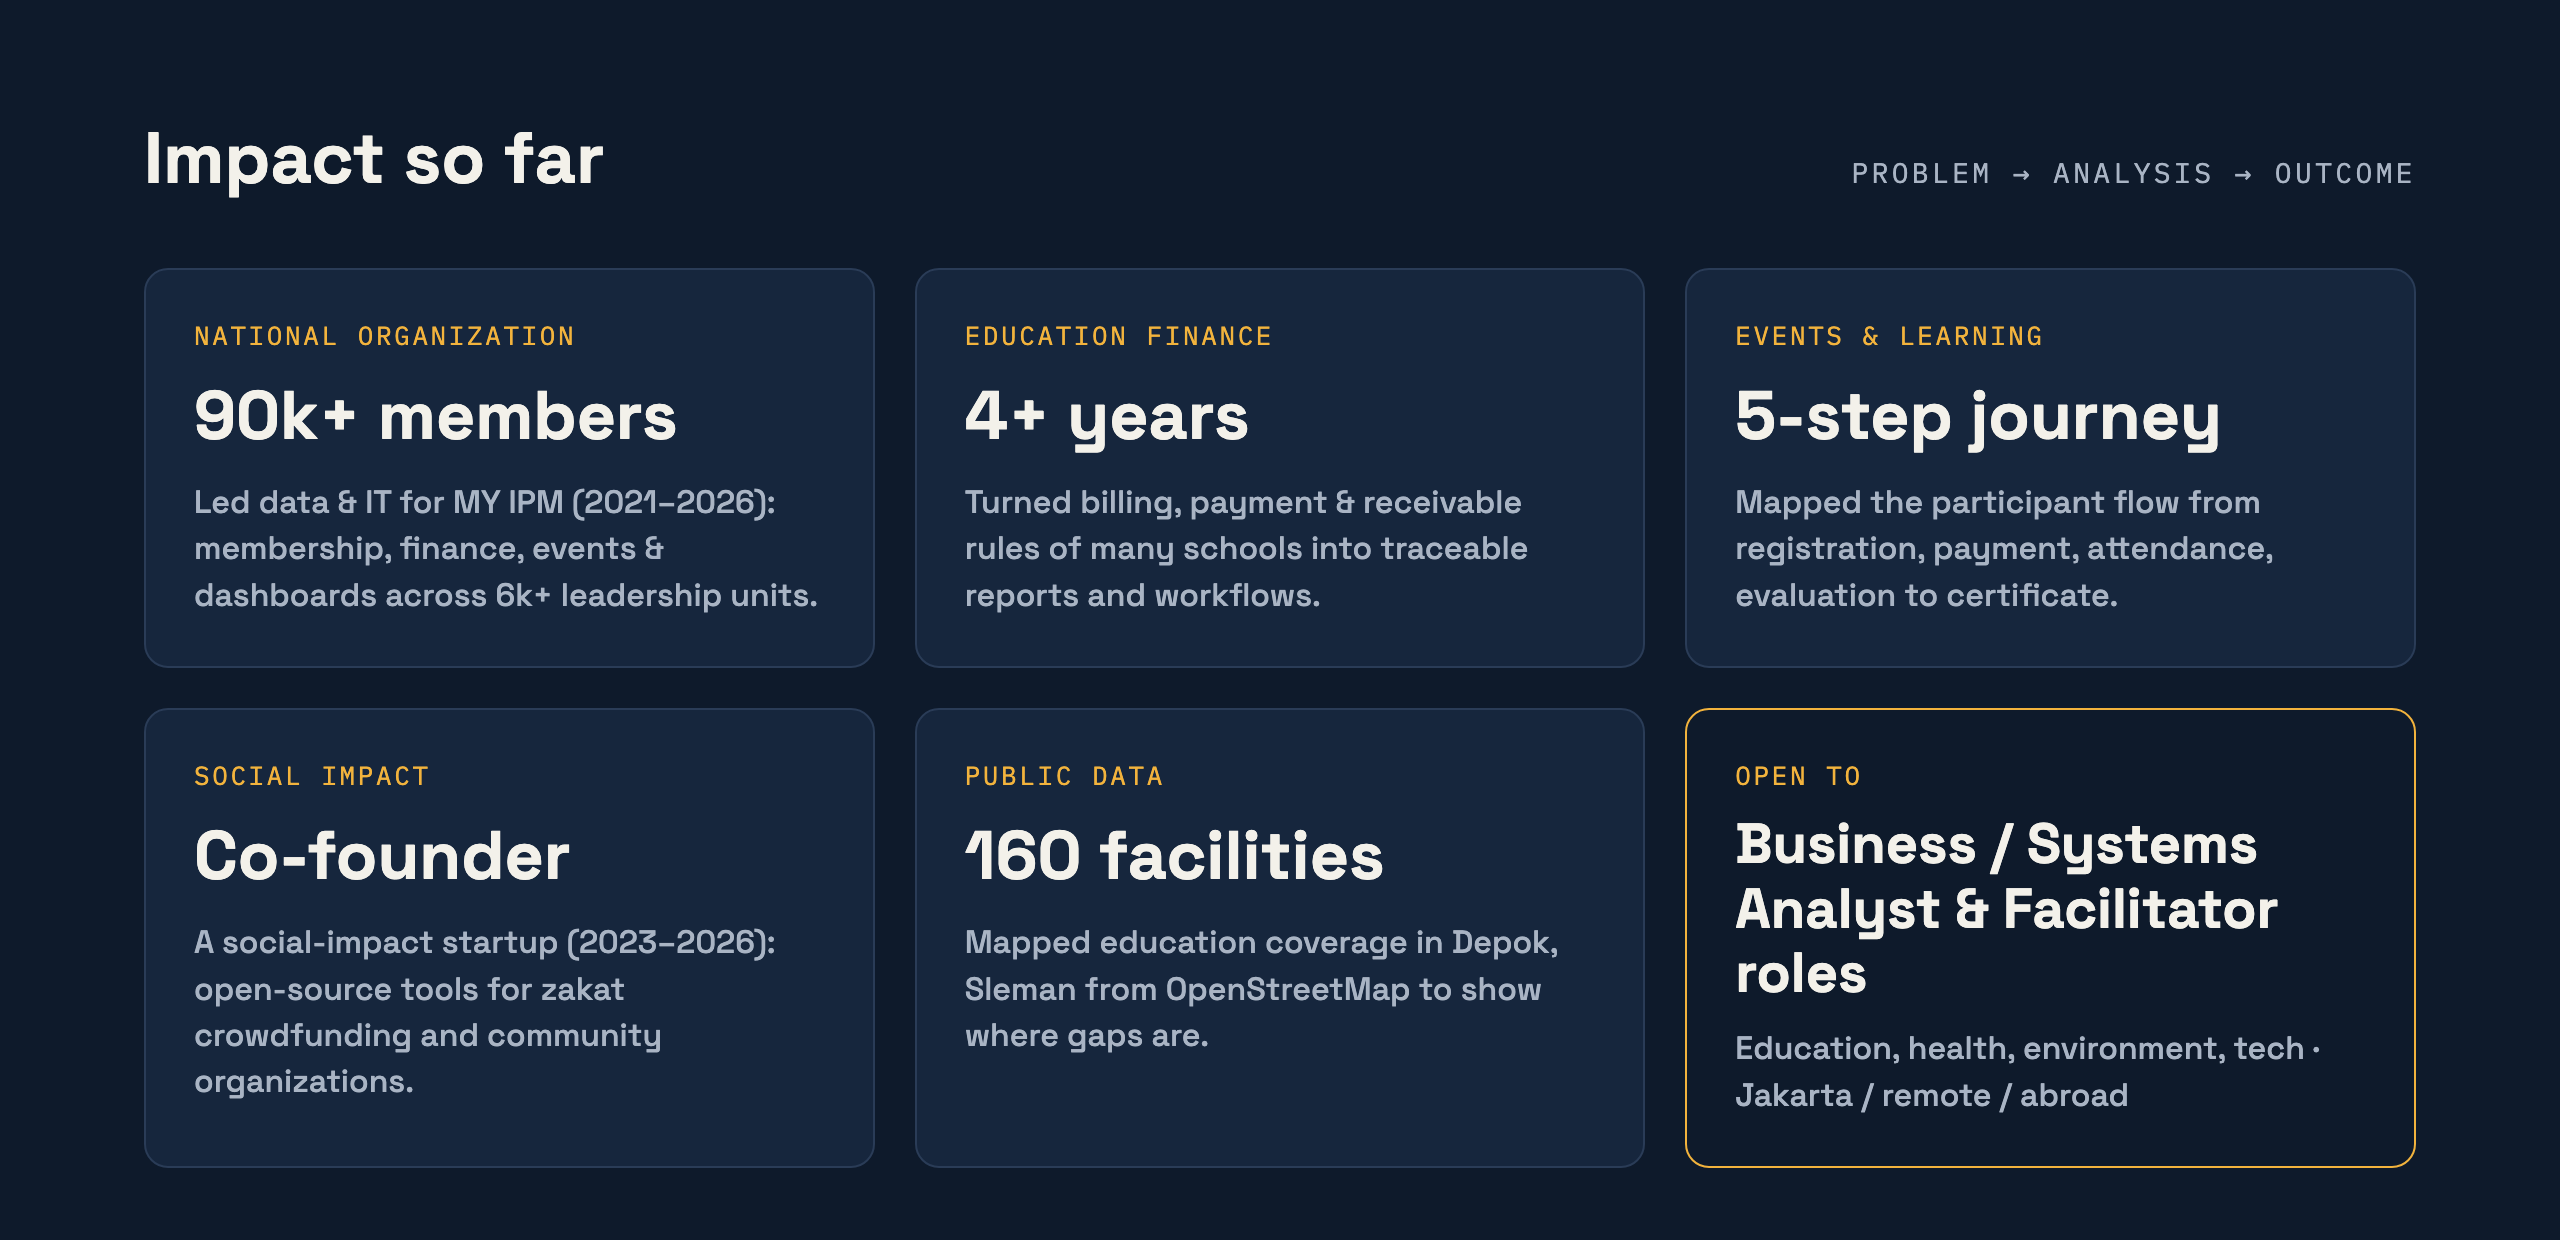
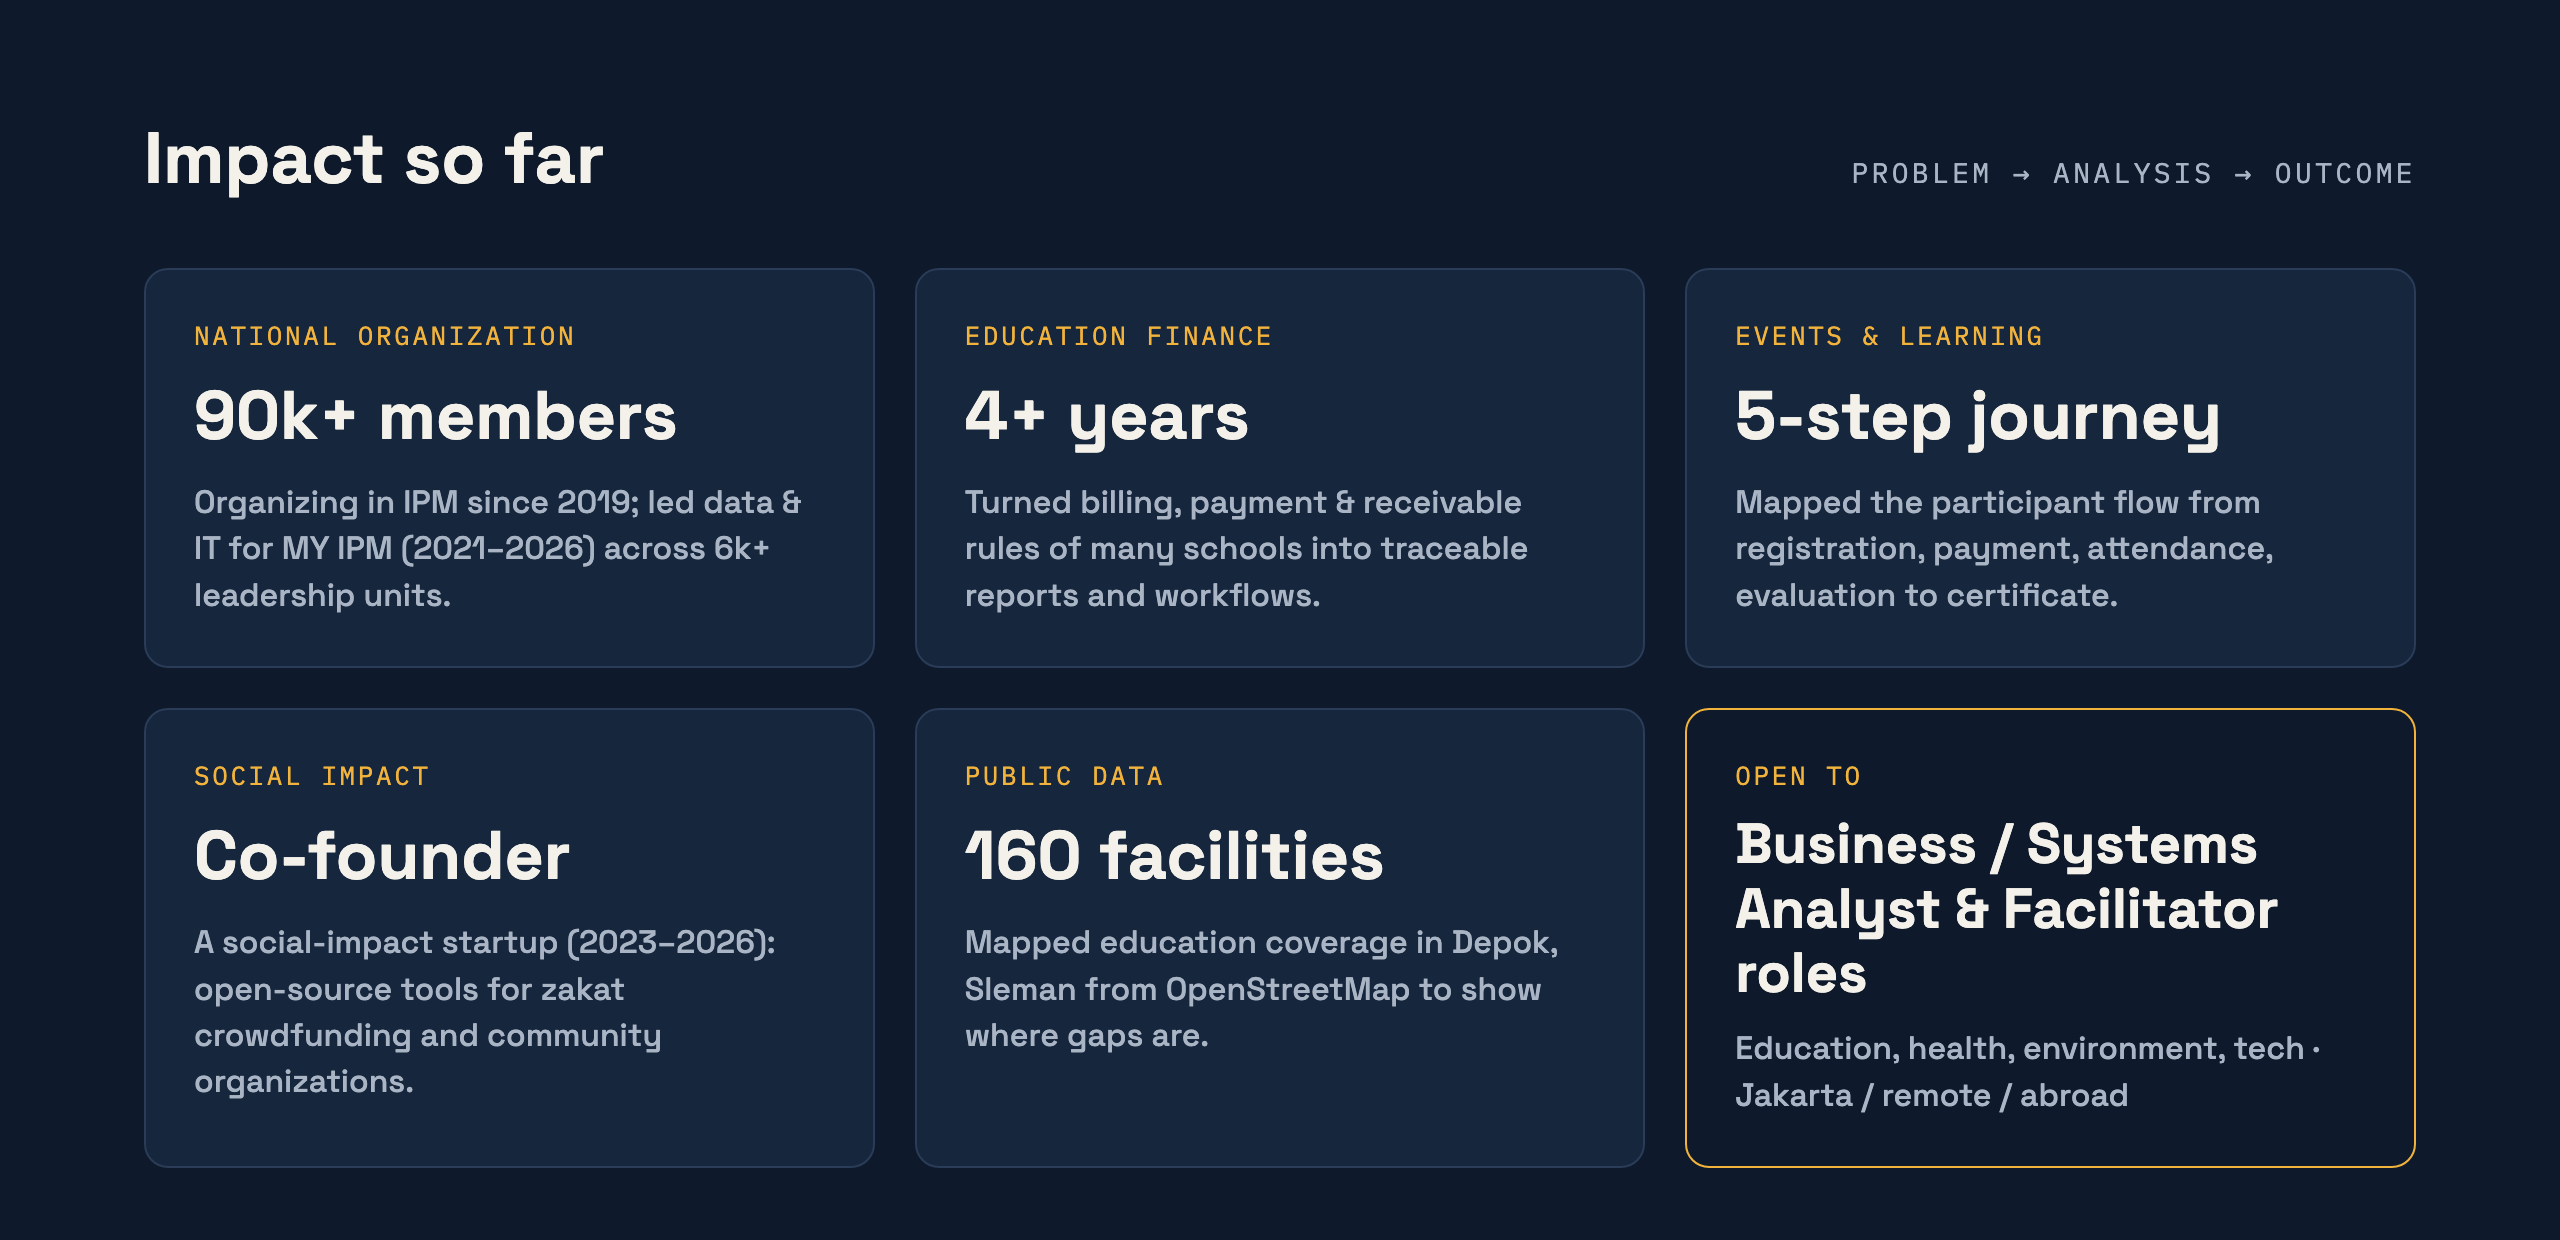
Add IPM organizing since 2019

Changed region(s): [[0.0625, 0.3984, 0.3125, 0.4903]]

diff --git a/README.md b/README.md
@@ -30,7 +30,7 @@ Before this I spent 4+ years as a fullstack developer building their systems, so
 
 | Area | What I did | Scale / result |
 |---|---|---|
-| National organization | Director, Central Data & IT Institute of PP IPM (2021–2026): turned multi-stakeholder needs into workflows for membership, finance, events, ID cards & dashboards on MY IPM | Platform with 90k+ registered members, 70k+ accounts, 6k+ leadership units |
+| National organization | Active cadre of IPM since 2019 (7+ years of organizing); Director, Central Data & IT Institute of PP IPM (2021–2026): turned multi-stakeholder needs into workflows for membership, finance, events, ID cards & dashboards on MY IPM | Platform with 90k+ registered members, 70k+ accounts, 6k+ leadership units |
 | Education finance | Analyzed billing, discount, payment & receivable rules across many schools for a multi-school edtech platform (2022–now) and made them traceable in reports | 4+ years of production cycles, incl. institution migrations |
 | Events & learning | Mapped the participant journey of an event & learning platform: registration → payment → attendance → evaluation → certificate, and protected it against duplicate records | Verified under 30 simultaneous requests |
 | Social impact | Co-founded a social-impact startup (2023–2026); ran product discovery with organizations and shaped open-source tools for zakat crowdfunding and community organization management (member CRM + impact reports) | Field needs translated into product decisions |
